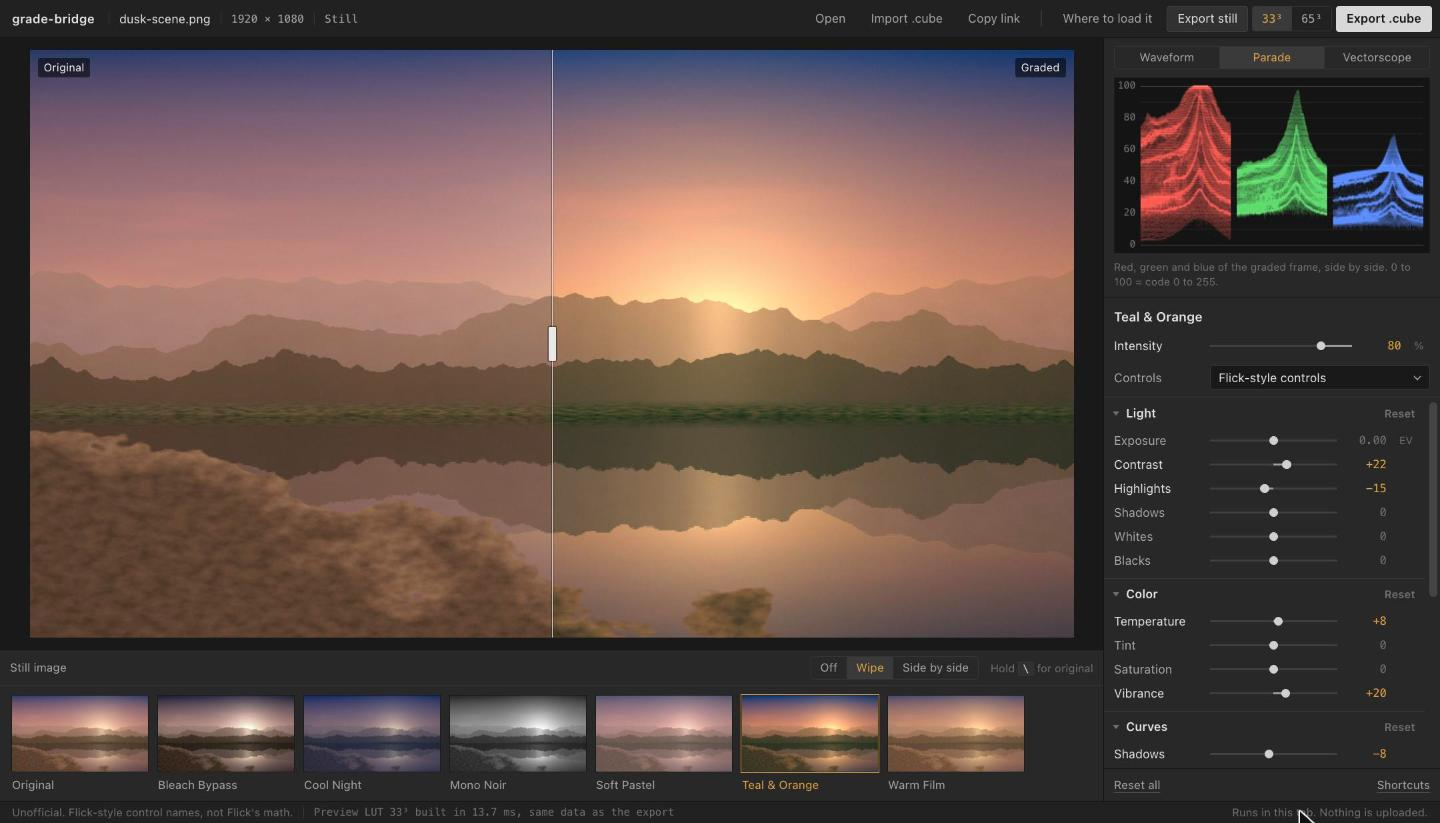
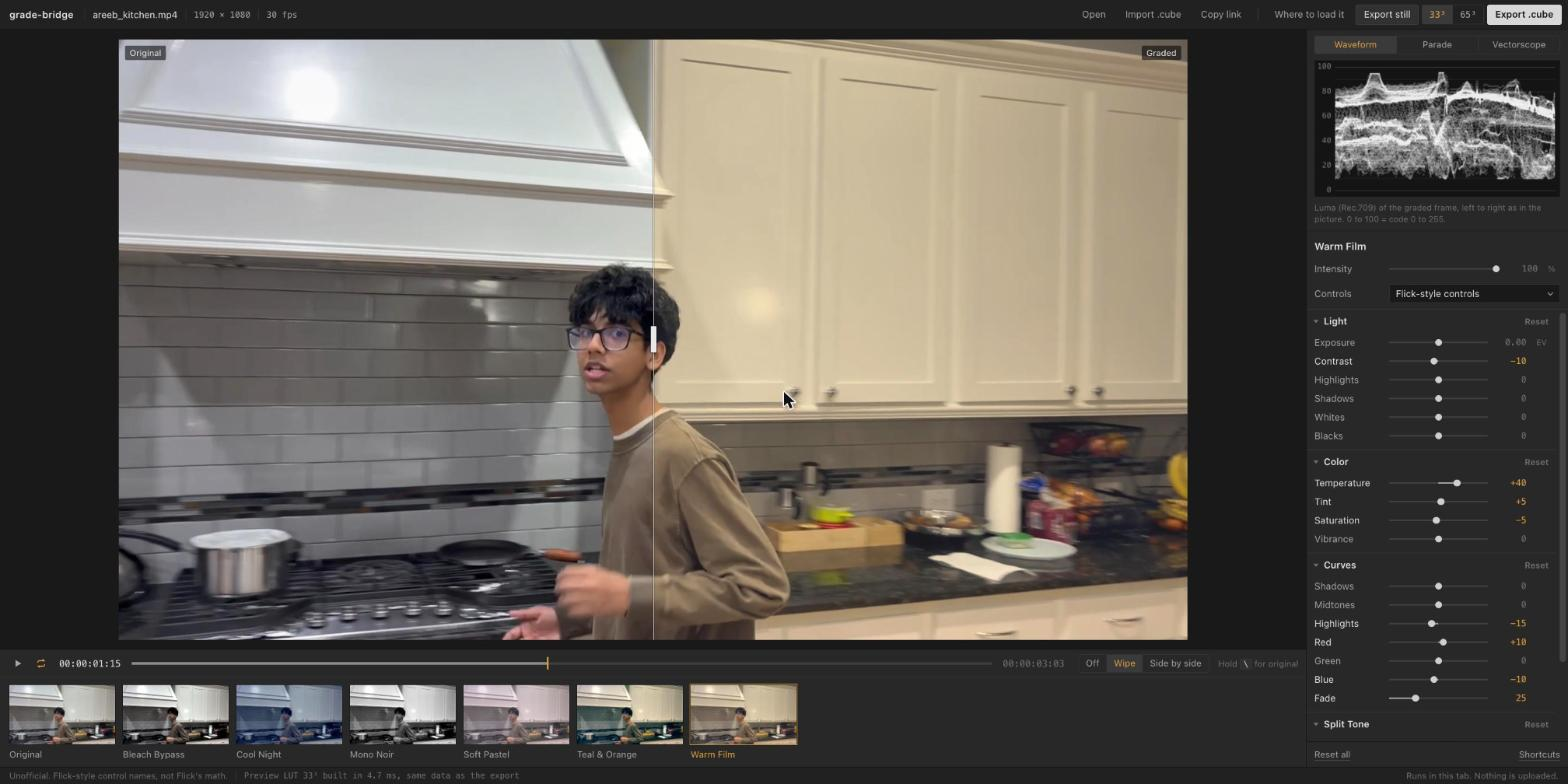
Detect iPhone HDR clips and warn before grading; real-footage proof in README
- Read the colr box (nclc or nclx) inside moov by walking top-level boxes, so
  HLG/PQ clips are flagged wherever iPhone puts moov
- Notice explains why HDR looks wrong in the browser and how to get SDR
- README hero and a new ffmpeg proof use real iPhone footage

diff --git a/src/web/hdr.ts b/src/web/hdr.ts
@@ -1,0 +1,50 @@
+// iPhones record HDR (HLG) by default. Browsers hand that footage to WebGL
+// without a reliable HDR to Rec.709 conversion, so it looks colder and flatter
+// than it is, and a Rec.709 LUT will not match on it in an editor either.
+// We can't fix the decode, but we can tell the user before they trust the look.
+
+export type Transfer = "hlg" | "pq" | "sdr";
+
+// ISO/IEC 23001-8 transfer characteristics: 16 = PQ (SMPTE ST 2084), 18 = HLG.
+export function transferFromCode(code: number): Transfer {
+  if (code === 18) return "hlg";
+  if (code === 16) return "pq";
+  return "sdr";
+}
+
+// Finds the first `colr` box of type `nclx` (MP4) or `nclc` (QuickTime, what
+// iPhones write) and returns its transfer code. Both store primaries u16 then
+// transfer u16 right after the 4-byte colour type.
+export function findColrTransfer(bytes: Uint8Array): number | null {
+  for (let i = 0; i + 12 <= bytes.length; i++) {
+    if (bytes[i] !== 0x63 || bytes[i + 1] !== 0x6f || bytes[i + 2] !== 0x6c || bytes[i + 3] !== 0x72) continue; // colr
+    const isNcl = bytes[i + 4] === 0x6e && bytes[i + 5] === 0x63 && bytes[i + 6] === 0x6c; // ncl
+    const kind = bytes[i + 7];
+    if (isNcl && (kind === 0x78 || kind === 0x63)) return (bytes[i + 10] << 8) | bytes[i + 11]; // x or c
+  }
+  return null;
+}
+
+const MAX_MOOV = 64 * 1024 * 1024;
+
+// Walks the top-level boxes reading only their 16-byte headers, then reads just
+// the moov box, which holds the colour tags. iPhone files can put moov anywhere,
+// so guessing at the start or end of the file is not enough.
+export async function detectTransfer(file: Blob): Promise<Transfer> {
+  let offset = 0;
+  while (offset + 8 <= file.size) {
+    const head = new DataView(await file.slice(offset, offset + 16).arrayBuffer());
+    let size = head.getUint32(0);
+    const type = String.fromCharCode(head.getUint8(4), head.getUint8(5), head.getUint8(6), head.getUint8(7));
+    if (size === 1 && head.byteLength >= 16) size = Number(head.getBigUint64(8));
+    else if (size === 0) size = file.size - offset;
+    if (size < 8) break;
+    if (type === "moov") {
+      const end = Math.min(offset + size, offset + MAX_MOOV);
+      const code = findColrTransfer(new Uint8Array(await file.slice(offset, end).arrayBuffer()));
+      return code === null ? "sdr" : transferFromCode(code);
+    }
+    offset += size;
+  }
+  return "sdr";
+}

diff --git a/tests/hdr.test.ts b/tests/hdr.test.ts
@@ -1,0 +1,54 @@
+import { describe, expect, it } from "vitest";
+import { detectTransfer, findColrTransfer, transferFromCode } from "../src/web/hdr";
+
+const ascii = (s: string) => [...s].map((c) => c.charCodeAt(0));
+
+function box(type: string, payload: Uint8Array): Uint8Array<ArrayBuffer> {
+  const size = 8 + payload.length;
+  const out = new Uint8Array(size);
+  new DataView(out.buffer).setUint32(0, size);
+  out.set(ascii(type), 4);
+  out.set(payload, 8);
+  return out;
+}
+
+function colr(kind: "nclx" | "nclc", transfer: number): Uint8Array<ArrayBuffer> {
+  const tail = kind === "nclx" ? [0, 9, transfer >> 8, transfer & 255, 0, 9, 0] : [0, 9, transfer >> 8, transfer & 255, 0, 9];
+  return box("colr", new Uint8Array([...ascii(kind), ...tail]));
+}
+
+const cat = (...parts: Uint8Array[]): Uint8Array<ArrayBuffer> => {
+  const out = new Uint8Array(parts.reduce((n, p) => n + p.length, 0));
+  let o = 0;
+  for (const p of parts) (out.set(p, o), (o += p.length));
+  return out;
+};
+
+describe("HDR detection", () => {
+  it("reads the transfer code from nclx (MP4) and nclc (QuickTime) colr boxes", () => {
+    expect(findColrTransfer(cat(new Uint8Array(40), colr("nclx", 18)))).toBe(18);
+    expect(findColrTransfer(cat(new Uint8Array(40), colr("nclc", 18)))).toBe(18);
+    expect(findColrTransfer(colr("nclc", 1))).toBe(1);
+    expect(findColrTransfer(new Uint8Array(500))).toBeNull();
+  });
+
+  it("maps HLG and PQ codes and treats everything else as SDR", () => {
+    expect(transferFromCode(18)).toBe("hlg");
+    expect(transferFromCode(16)).toBe("pq");
+    expect(transferFromCode(1)).toBe("sdr");
+  });
+
+  it("finds moov in the middle of a file, the way iPhone writes it", async () => {
+    const mdat1 = box("mdat", new Uint8Array(6 * 1024 * 1024));
+    const moov = box("moov", box("trak", colr("nclc", 18)));
+    const mdat2 = box("mdat", new Uint8Array(5 * 1024 * 1024));
+    const file = new Blob([box("ftyp", new Uint8Array(12)), mdat1, moov, mdat2]);
+    expect(await detectTransfer(file)).toBe("hlg");
+  });
+
+  it("returns sdr for an SDR moov and for files with no boxes", async () => {
+    const file = new Blob([box("ftyp", new Uint8Array(12)), box("moov", colr("nclx", 1))]);
+    expect(await detectTransfer(file)).toBe("sdr");
+    expect(await detectTransfer(new Blob([new Uint8Array(3)]))).toBe("sdr");
+  });
+});

diff --git a/src/web/main.ts b/src/web/main.ts
@@ -2,6 +2,7 @@
 // Export        -> the same LUT -> mixWithIdentity(Intensity) -> .cube text -> download
 // Looks + scopes -> the same LUTs applied on the CPU to a downscaled copy of the frame
 
+import { detectTransfer } from "./hdr";
 import "./styles.css";
 import { ADAPTERS, defaultValues, getAdapter, presetToParams, type Adapter, type Control, type ControlValues, type Preset } from "../adapters/index.ts";
 import { parseCube, serializeCube, type CubeFile } from "../core/cube.ts";
@@ -453,6 +454,8 @@ function stopVideo(next?: Media): void {
 }
 
 function loadImage(url: string, name: string, revoke = false): Promise<void> {
+  hdrCheckFor = null;
+  showHdrNote(null);
   return new Promise((resolve, reject) => {
     const img = new Image();
     img.decoding = "async";
@@ -467,6 +470,11 @@ function loadImage(url: string, name: string, revoke = false): Promise<void> {
 }
 
 function loadVideo(file: File): void {
+  showHdrNote(null);
+  hdrCheckFor = file;
+  void detectTransfer(file).then((t) => {
+    if (t !== "sdr" && hdrCheckFor === file) showHdrNote(t);
+  });
   const video = document.createElement("video");
   video.muted = true;
   video.loop = state.loop;
@@ -906,6 +914,22 @@ function closeImported(redraw = true): void {
 // ---------- Chrome: toast, popover, drop, keyboard ----------
 
 let toastTimer = 0;
+let hdrCheckFor: File | null = null;
+
+function showHdrNote(kind: "hlg" | "pq" | null): void {
+  const el = $("hdr-note");
+  if (!kind) {
+    el.hidden = true;
+    return;
+  }
+  $("hdr-text").textContent =
+    `This is HDR video (${kind === "hlg" ? "HLG" : "PQ"}). Browsers don't convert HDR to standard color reliably, ` +
+    "so the original here looks colder and flatter than it really is, and a .cube built for standard (Rec.709) video " +
+    "won't match on it in your editor either. Grade an SDR copy instead. On iPhone, new clips record in SDR with " +
+    "Settings > Camera > Record Video > HDR Video turned off.";
+  el.hidden = false;
+}
+
 function toast(message: string): void {
   const el = $("toast");
   el.textContent = message;
@@ -1058,6 +1082,7 @@ function boot(): void {
   wireWipe();
   wireTransport();
   wirePopover();
+  $("hdr-close").addEventListener("click", () => showHdrNote(null));
   wireDrop();
   wireKeyboard();
   new ResizeObserver(() => {

diff --git a/src/web/styles.css b/src/web/styles.css
@@ -480,3 +480,19 @@ dialog form { display: flex; justify-content: flex-end; margin-top: 10px; }
   *, body.editing .app { transition: none !important; animation: none !important; }
 }
 input[type="range"].scrubber:hover::-webkit-slider-thumb { background: var(--accent); }
+
+/* ---------- HDR notice ---------- */
+
+.hdr-note {
+  position: absolute; top: 10px; left: 50%; transform: translateX(-50%);
+  z-index: 5; display: flex; gap: 14px; align-items: flex-start;
+  width: min(640px, calc(100% - 24px)); padding: 10px 12px;
+  background: var(--chrome); border: 1px solid var(--rule); border-left: 2px solid var(--accent);
+  color: var(--text); font-size: 12px; line-height: 1.5;
+}
+.hdr-note[hidden] { display: none; }
+.hdr-close {
+  flex: none; background: none; border: 0; padding: 0; cursor: pointer;
+  color: var(--text-2); font: inherit; text-decoration: underline; text-underline-offset: 2px;
+}
+.hdr-close:hover { color: var(--text); }

diff --git a/index.html b/index.html
@@ -74,6 +74,7 @@
       <main class="workspace">
         <section class="viewer-col" aria-label="Viewer">
           <div class="stage" id="stage">
+            <div class="hdr-note" id="hdr-note" role="status" hidden><span id="hdr-text"></span><button type="button" class="hdr-close" id="hdr-close" aria-label="Dismiss">Dismiss</button></div>
             <div class="frame" id="frame">
               <canvas id="canvas" aria-label="Graded preview"></canvas>
               <div class="wipe" id="wipe" role="slider" tabindex="0" aria-label="Wipe position" aria-valuemin="0" aria-valuemax="100" aria-valuenow="50"><span class="wipe-handle" aria-hidden="true"></span></div>

diff --git a/README.md b/README.md
@@ -4,7 +4,7 @@ When you move an edit from one app to a pro editor through a project file (XML o
 
 **Limit to know up front:** the Flick adapter uses the control names from Flick's public docs, not Flick's internal color math. A look built here will not match Flick pixel for pixel. Flick could get an exact match by passing its own grade function to `buildLut`, which is about ten lines of code (see "Exact match for an app's own grade" below).
 
-![The editor: a graded frame with a before/after wipe, the look strip built from the same frame, the RGB parade, and the controls](docs/screen-editor-scene.jpg)
+![The editor on real iPhone footage: Warm Film with a before/after wipe, the look strip built from the same frame, the waveform, and the Flick-style controls](docs/screen-editor-scene.jpg)
 
 ## What it does
 
@@ -50,7 +50,7 @@ These menu paths are from each app's documentation. The app shows the same table
 ```bash
 npm install
 npm run dev       # app at http://localhost:5173
-npm test          # 78 unit tests
+npm test          # 82 unit tests
 npm run verify    # export presets, apply them with ffmpeg, compare (needs ffmpeg)
 npm run build     # static app in dist/, CLI in dist-node/
 ```
@@ -118,6 +118,14 @@ To pass, the mean must be under 1.5 levels and the max at most 6 levels on every
 
 **Negative control:** the script also writes the same LUT with its axes swapped, which is the most common `.cube` bug. That file is off by a mean of 35.0 levels (max 137), which shows the check can fail.
 
+### On real footage
+
+The same check on a real clip: an iPhone video (converted to SDR), graded by ffmpeg from a 65³ Warm Film `.cube` exported by the CLI. Left is the original frame, right is ffmpeg applying the file. This is the path an editor takes, with ffmpeg standing in for it.
+
+![Real iPhone frame: original, and Warm Film applied by ffmpeg from the exported .cube](docs/real-footage.jpg)
+
+### Test chart
+
 Top: Teal & Orange. Bottom: Mono Noir. Each row is original | ffmpeg with the exported `.cube` | exact math:
 
 ![Test chart graded by ffmpeg from the exported .cube](docs/ffmpeg-verify.png)
@@ -151,6 +159,7 @@ The scopes are computed from a 640x360 copy of the graded frame, graded on the C
 ## Limits
 
 - **A LUT only carries color.** It maps each input color to one output color. Anything that looks at neighbouring pixels, position or time cannot go in a LUT: blur, glow, grain, sharpening, vignettes, keying, transitions. Those need the destination editor's own effects.
+- **SDR only. iPhone HDR video looks wrong in the browser.** iPhones record HDR (HLG) by default. Browsers pass that footage to WebGL without a reliable HDR to Rec.709 conversion, so it shows up colder and flatter than it really is, and a Rec.709 `.cube` won't match on it in an editor either. The app reads the file's color tags (the `colr` box inside `moov`) and shows a notice when a clip is HLG or PQ. To grade iPhone footage, turn off Settings > Camera > Record Video > HDR Video, or convert an SDR copy first (on a Mac: `avconvert -s in.mov -o out.mov -p PresetHighestQuality`).
 - **Display-referred.** Values pushed past white clip, as they do in phone editors.
 - **Adapters approximate.** Slider names and ranges inside Flick's Light/Color/Curves sections are not in Flick's docs, so they are conventional guesses.
 - **Video is preview only.** You export the `.cube` and render the video in your editor. Playback is muted, and the browser decides which codecs it can open (H.264 MP4 and WebM work in Chrome; ProRes and most log camera files do not).

diff --git a/WALKTHROUGH.md b/WALKTHROUGH.md
@@ -117,3 +117,6 @@ Yes. Intensity is baked into the `.cube`, so a look at 60% in the app is the sam
 
 **10. "Are the scopes real, or decoration?"**
 They are real counts of the graded pixels, on a 640x360 copy of the frame. The waveform runs 0 to 100 for code values 0 to 255, the vectorscope has the 75% color-bar boxes and the skin-tone line, and the binning is unit tested against known inputs. The limit to say out loud: they read a downscaled copy, so a single bright pixel can be missed, and they are not a replacement for scopes on a calibrated full-resolution signal.
+
+**11. "Most of our users shoot on iPhone. Does it work on their clips?"**
+Only on SDR clips, and the app says so. iPhones record HDR (HLG) by default, and browsers don't convert HDR to standard color reliably, so an HDR clip shows up colder and flatter than it really is. I found this testing my own footage. The app reads the color tag inside the file (the `colr` box in `moov`, transfer code 18 means HLG) and shows a notice telling the user to grade an SDR copy. A real fix would be a proper HLG to Rec.709 conversion before the LUT, which is the next thing I would build.
